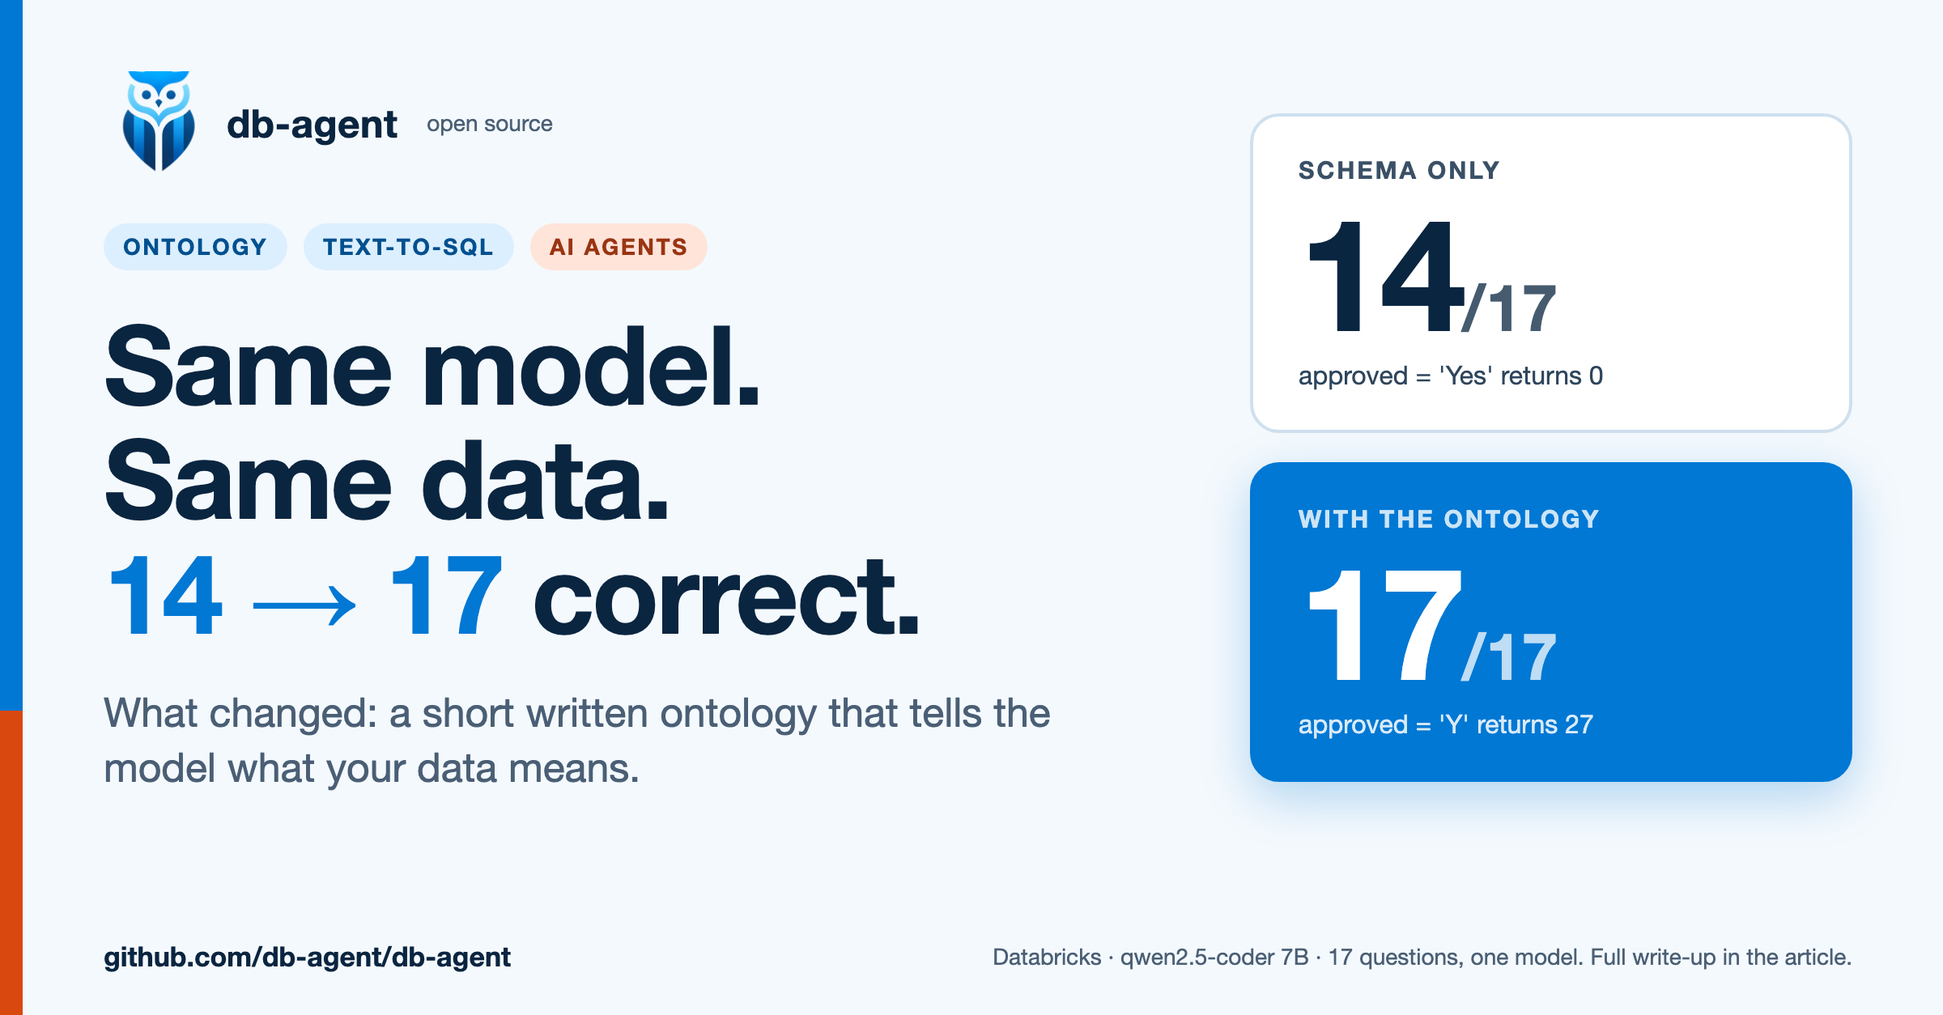
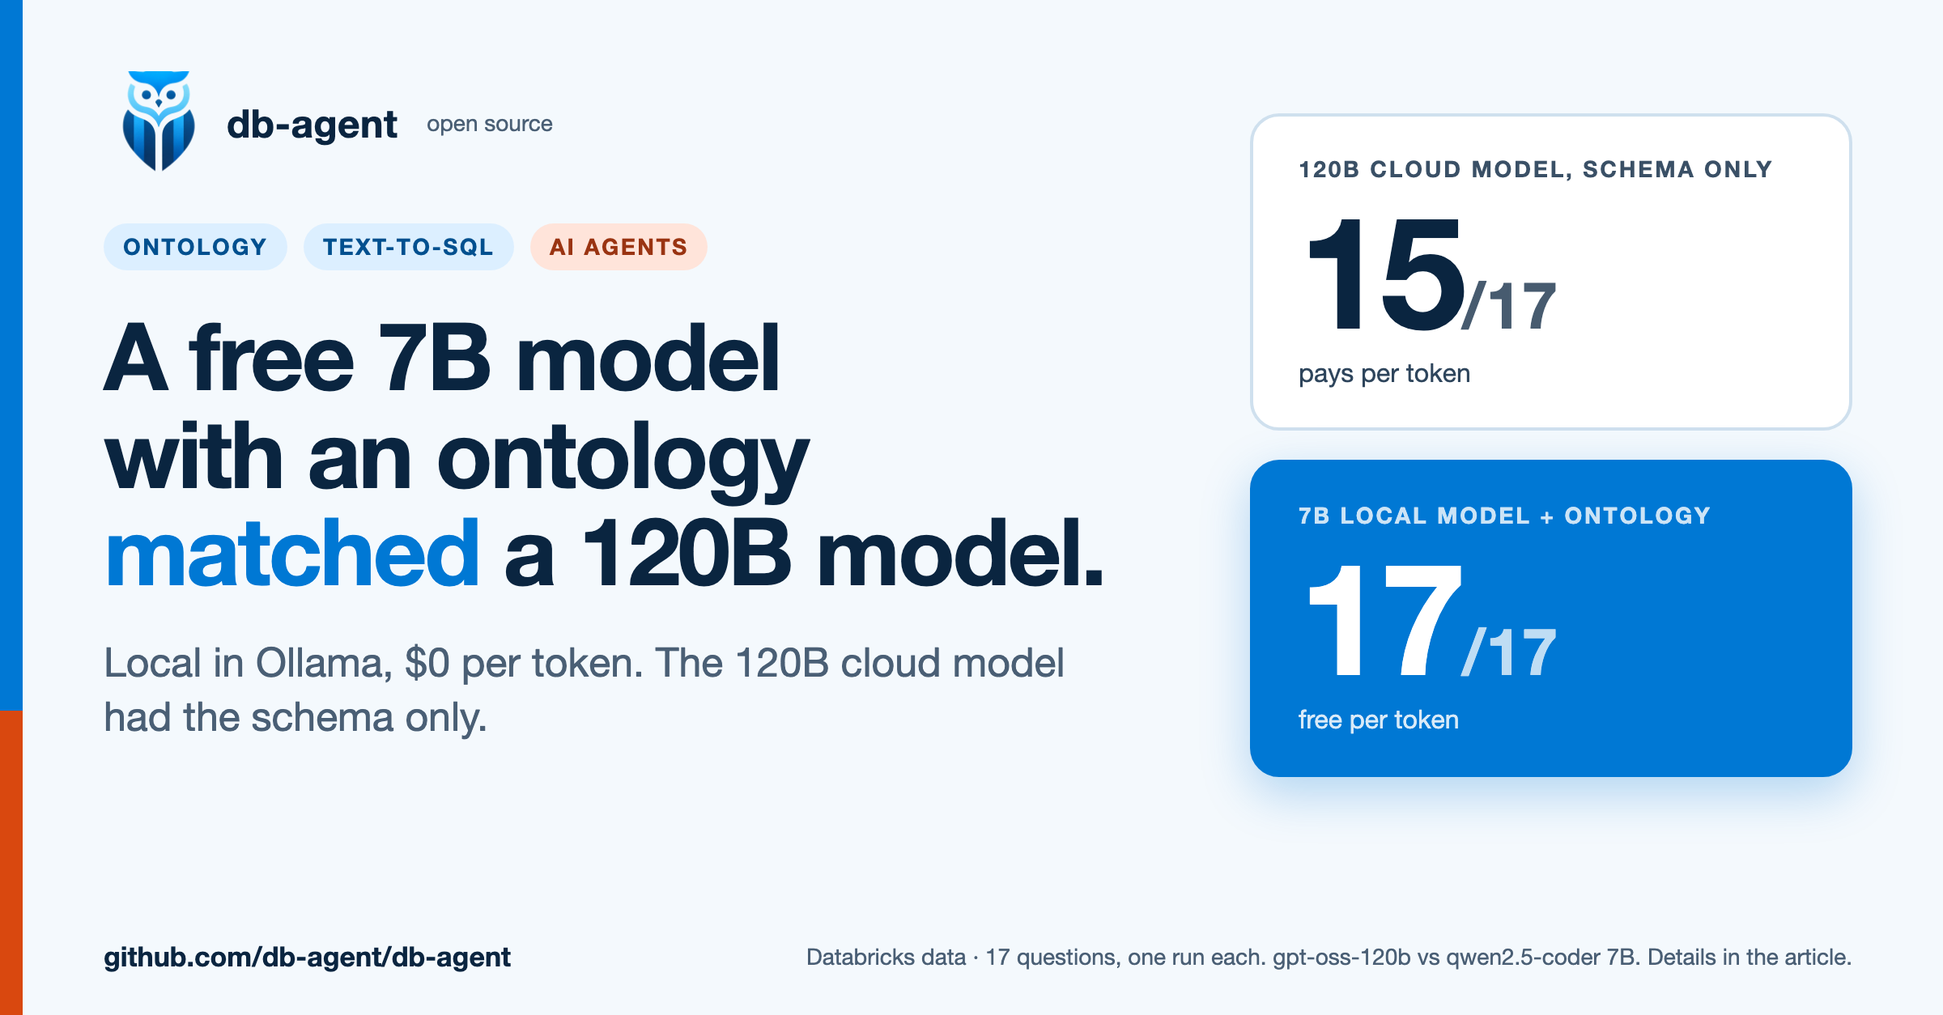
Blog, post and flyer: free local 7B with an ontology against a 120B cloud model, with token costs

diff --git a/app/docs/blog/ontology-text-to-sql-accuracy.html b/app/docs/blog/ontology-text-to-sql-accuracy.html
@@ -253,7 +253,9 @@ for AI Database Agents: Why Model Size Matters Less Than You Think</h1>
 <p><em>I gave the same models the same questions with and without a
 written-down ontology, on AdventureWorks and on a Databricks dataset
 with no comments at all. For text-to-SQL in an AI database agent, the
-ontology moved accuracy more than the choice of model did.</em></p>
+ontology moved accuracy more than the choice of model did, and a free
+local 7B model with an ontology matched a 120B cloud model without
+one.</em></p>
 <p>Most conversations about text-to-SQL accuracy are about the model: a
 bigger one, a SQL-specialist one, a better prompt. I ran a set of tests
 on <a href="https://github.com/db-agent/db-agent">db-agent</a>, an
@@ -280,8 +282,19 @@ difference.</li>
 questions. Adding the ontology changed it by 3 to 7.</li>
 <li>A general 7B model with an ontology (14 of 17) beat a SQL-specialist
 7B model that had only the schema (9 of 17) on AdventureWorks.</li>
-<li>I tested models from 0.5B to 7B. I did not test a frontier model, so
-this article does not claim a small model beats one.</li>
+<li><strong>Free local model against a 120B cloud model:</strong> on the
+Databricks data, a 7B model running locally in Ollama with an ontology
+scored <strong>17 of 17</strong>. OpenAI’s <code>gpt-oss-120b</code> on
+Groq, with the schema alone, scored <strong>15 of 17</strong>, and still
+returned 0 rows for one question that depends on a value only the data
+knows.</li>
+<li><strong>Cost:</strong> the local model costs nothing per token. The
+120B model cost roughly 0.01 to 0.09 US cents per question at Groq’s
+list price. That is cheap, and it still scales with volume and with the
+size of the ontology you send.</li>
+<li>I tested models from 0.5B to 7B locally and one 120B open-weight
+model in the cloud. I did not test a closed frontier model, so this
+article does not claim a small model beats one.</li>
 <li>My first Bakehouse run showed <strong>no gain</strong> (10 correct
 without, 9 with). The ontology was not reaching the model. Writing it
 was not enough: it also has to be found.</li>
@@ -651,6 +664,24 @@ with an ontology</td>
 <td>about equal: the small model with an ontology matched the larger one
 without</td>
 </tr>
+<tr>
+<td><em>Bakehouse:</em> 7B model, schema only, then the 120B model,
+schema only</td>
+<td>14, then 15</td>
+<td>+1 for about 17 times the total parameters</td>
+</tr>
+<tr>
+<td><em>Bakehouse:</em> 7B model, schema only, then the 7B model with an
+ontology</td>
+<td>14, then 17</td>
+<td><strong>+3</strong></td>
+</tr>
+<tr>
+<td><em>Bakehouse:</em> the 120B model, schema only, against the 7B
+model with an ontology</td>
+<td>15 against <strong>17</strong></td>
+<td>the free local model with the ontology matches or beats it</td>
+</tr>
 </tbody>
 </table>
 <p>Every one of these rows is one run on 17 questions, so a difference
@@ -659,24 +690,125 @@ bigger or better-trained model fixes some errors, and an ontology fixes
 a different kind: the ones where the answer is a fact about your data,
 not a skill. A bigger model cannot know that your table stores
 <code>&#39;Y&#39;</code> where it expected <code>&#39;Yes&#39;</code>.</p>
-<p>What I did not test is a frontier model. A larger model may get more
-questions right from the schema alone, and may also guess some
-conventions correctly. Whether a small model with the right ontology can
-match or beat one is an open question in this article, and the next test
-I plan to run.</p>
+<p>What I did not test is a closed frontier model. The 120B model I did
+test is a strong open-weight model, not the best closed model available,
+and a closed model may do better.</p>
+<h2 id="a-free-local-model-against-a-120b-cloud-model">A free local
+model against a 120B cloud model</h2>
+<p>The point I most wanted to check: can a model you run for free get
+the accuracy of a much larger one you pay for per token? I ran the
+Bakehouse questions on <code>gpt-oss-120b</code> through Groq (120B
+parameters in total, about 5B active per token, a reasoning model, run
+at low reasoning effort) and compared it with the local 7B model:</p>
+<table>
+<thead>
+<tr>
+<th>Model</th>
+<th>Schema only</th>
+<th>With the ontology</th>
+</tr>
+</thead>
+<tbody>
+<tr>
+<td><code>qwen2.5-coder</code> 7B, local in Ollama</td>
+<td>14 / 17</td>
+<td><strong>17 / 17</strong></td>
+</tr>
+<tr>
+<td><code>gpt-oss-120b</code>, Groq</td>
+<td><strong>15 / 17</strong></td>
+<td>16 / 17</td>
+</tr>
+</tbody>
+</table>
+<p>Three things stand out:</p>
+<ol type="1">
+<li><strong>The 120B model guessed more conventions on its own.</strong>
+It got the visa question and the female-customers question right without
+being told, where the 7B wrote <code>&#39;Visa&#39;</code> and <code>&#39;F&#39;</code>.
+Bigger models carry better priors about how data is usually stored.</li>
+<li><strong>It still missed the one convention that only your data
+knows.</strong> For “How many suppliers are approved?” it wrote
+<code>approved ILIKE &#39;%yes%&#39;</code> and got 0. The value is
+<code>&#39;Y&#39;</code>. With the ontology it returned 27. No amount of model
+size can read that from a schema.</li>
+<li><strong>The ontology helped the small model more.</strong> It added
+3 correct answers to the 7B model and 1 to the 120B one. But it helped
+both.</li>
+</ol>
+<p>The 7B model with the ontology scored 17 and the 120B model without
+it scored 15. I would call that a match, not a win. The 120B model also
+failed one question (“What is the revenue of the franchises in Japan?”)
+in both runs because it returned a revenue per franchise where my ground
+truth expects one total. The wording allows either reading. Excluding
+that question, the 120B model scores 15 of 16 against 16 of 16 for the
+7B with the ontology, which is a one-question difference.</p>
 <h2 id="what-it-costs">What it costs</h2>
-<p>The ontology is text in the prompt. In the final Bakehouse run the 17
-questions used 12,461 tokens without it and 21,352 with it, about 520
-more input tokens per question. With the illustrative prices I used for
-the local model, that is a fraction of a cent per question. On
-AdventureWorks the effect went the other way (fewer tokens, fewer
-repairs). It depends on how many repairs the model needs without
-help.</p>
+<p>Two kinds of cost matter: tokens and the effort of writing the
+ontology.</p>
+<table>
+<thead>
+<tr>
+<th>Setup (17 questions)</th>
+<th>Tokens</th>
+<th>Cost at list price</th>
+</tr>
+</thead>
+<tbody>
+<tr>
+<td>7B local, schema only</td>
+<td>12,461</td>
+<td>$0, the model runs on your machine</td>
+</tr>
+<tr>
+<td>7B local, with the ontology</td>
+<td>21,352</td>
+<td>$0</td>
+</tr>
+<tr>
+<td>120B on Groq, schema only</td>
+<td>15,725</td>
+<td>about $0.002 to $0.009</td>
+</tr>
+<tr>
+<td>120B on Groq, with the ontology</td>
+<td>23,995</td>
+<td>about $0.004 to $0.014</td>
+</tr>
+</tbody>
+</table>
+<p>Groq lists <code>gpt-oss-120b</code> at $0.15 per million input
+tokens and $0.60 per million output tokens. I did not split the 120B
+tokens into input and output, so the range runs from all input to all
+output. For the 120B model that is about 0.01 to 0.06 cents per question
+without the ontology and 0.02 to 0.08 with it, and its token counts
+include the model’s reasoning tokens.</p>
+<p>What I take from this:</p>
+<ul>
+<li><strong>The ontology is not free on a paid model.</strong> It added
+about 50 to 70 percent more tokens per question (about 520 more input
+tokens per question for the 7B). On a local model that extra context
+costs nothing. On a paid model it multiplies your bill, so keep the file
+short and put the most-used notes first.</li>
+<li><strong>A hosted open model is already cheap.</strong> At these
+prices, 1,000,000 questions a month would cost on the order of $140 to
+$850 on the 120B model, depending on the ontology and the token split.
+The case for local is zero marginal cost, data that never leaves your
+network, and no per-minute limits (Groq’s page lists 8,000 tokens per
+minute for this model on the base plan, which is why I ran it at low
+reasoning effort with retries), not that the cloud is expensive. I did
+not price closed frontier models.</li>
+<li><strong>Local is not free.</strong> You pay for the machine and the
+effort to run it. The saving is the per-token charge.</li>
+</ul>
 <h2 id="limits">Limits</h2>
 <p>I would rather you read these than find them.</p>
 <ul>
-<li><strong>Models from 0.5B to 7B, plus one SQL-specialist
-model.</strong> No frontier model was tested.</li>
+<li><strong>Models from 0.5B to 7B locally, one SQL-specialist model,
+and one 120B open-weight model in the cloud.</strong> No closed frontier
+model was tested. The 120B run used low reasoning effort (chosen because
+of a per-minute token limit) and one run; a higher effort may do
+better.</li>
 <li><strong>17 questions per dataset, one model family.</strong> A
 difference of one or two questions is noise. The pattern across two
 datasets and several runs is the evidence, not any single number.</li>

diff --git a/app/docs/blog/flyer/flyer.html b/app/docs/blog/flyer/flyer.html
@@ -15,7 +15,7 @@
   .kick { margin-top: 30px; display: flex; gap: 10px; }
   .chip { font-size: 14px; font-weight: 700; letter-spacing: 1.2px; padding: 6px 12px; border-radius: 999px; background: var(--azure-soft); color: #00508f; }
   .chip.o { background: #ffe4da; color: #9a3412; }
-  h1 { margin-top: 22px; font-size: 68px; line-height: 1.04; font-weight: 800; letter-spacing: -1.5px; }
+  h1 { margin-top: 22px; font-size: 58px; line-height: 1.04; font-weight: 800; letter-spacing: -1.5px; }
   h1 em { font-style: normal; color: var(--azure); }
   .sub { margin-top: 22px; font-size: 25px; line-height: 1.35; color: var(--muted); max-width: 600px; }
   .code { margin-top: 26px; width: 600px; border: 1px solid var(--line); border-radius: 12px; background: #fff; overflow: hidden; font-family: ui-monospace, "SF Mono", Menlo, monospace; font-size: 19px; }
@@ -26,7 +26,7 @@
   .right { position: absolute; right: 56px; top: 70px; width: 372px; display: flex; flex-direction: column; gap: 18px; }
   .card { border-radius: 18px; padding: 24px 28px; background: #fff; border: 2px solid var(--line); }
   .card.on { background: var(--azure); border-color: var(--azure); color: #fff; box-shadow: 0 10px 30px rgba(0,120,212,.28); }
-  .card small { display: block; font-size: 15px; font-weight: 700; letter-spacing: 1.4px; opacity: .8; }
+  .card small { display: block; font-size: 14px; font-weight: 700; letter-spacing: 1.4px; opacity: .8; }
   .card .n { font-size: 96px; font-weight: 800; line-height: 1; letter-spacing: -3px; margin-top: 6px; }
   .card .n span { font-size: 40px; letter-spacing: 0; opacity: .75; font-weight: 700; }
   .card p { margin-top: 6px; font-size: 16px; opacity: .85; }
@@ -39,15 +39,15 @@
   <div class="left">
     <div class="brand"><div class="logo"><img src="logo.png" alt="db-agent logo"></div><b>db-agent</b><span>open source</span></div>
     <div class="kick"><span class="chip">ONTOLOGY</span><span class="chip">TEXT-TO-SQL</span><span class="chip o">AI AGENTS</span></div>
-    <h1>Same model.<br>Same data.<br><em>14 &rarr; 17</em> correct.</h1>
-    <p class="sub">What changed: a short written ontology that tells the model what your data means.</p>
+    <h1>A free 7B model<br>with an ontology<br><em>matched</em> a 120B model.</h1>
+    <p class="sub">Local in Ollama, $0 per token. The 120B cloud model had the schema only.</p>
   </div>
   <div class="right">
-    <div class="card"><small>SCHEMA ONLY</small><div class="n">14<span>/17</span></div><p>approved = 'Yes' returns 0</p></div>
-    <div class="card on"><small>WITH THE ONTOLOGY</small><div class="n">17<span>/17</span></div><p>approved = 'Y' returns 27</p></div>
+    <div class="card"><small>120B CLOUD MODEL, SCHEMA ONLY</small><div class="n">15<span>/17</span></div><p>pays per token</p></div>
+    <div class="card on"><small>7B LOCAL MODEL + ONTOLOGY</small><div class="n">17<span>/17</span></div><p>free per token</p></div>
   </div>
   <div class="foot">
     <div><b>github.com/db-agent/db-agent</b></div>
-    <div class="tiny">Databricks &middot; qwen2.5-coder 7B &middot; 17 questions, one model. Full write-up in the article.</div>
+    <div class="tiny">Databricks data &middot; 17 questions, one run each. gpt-oss-120b vs qwen2.5-coder 7B. Details in the article.</div>
   </div>
 </body></html>

diff --git a/app/docs/blog/ontology-text-to-sql-accuracy.md b/app/docs/blog/ontology-text-to-sql-accuracy.md
@@ -1,6 +1,6 @@
 # Ontology for AI Database Agents: Why Model Size Matters Less Than You Think
 
-*I gave the same models the same questions with and without a written-down ontology, on AdventureWorks and on a Databricks dataset with no comments at all. For text-to-SQL in an AI database agent, the ontology moved accuracy more than the choice of model did.*
+*I gave the same models the same questions with and without a written-down ontology, on AdventureWorks and on a Databricks dataset with no comments at all. For text-to-SQL in an AI database agent, the ontology moved accuracy more than the choice of model did, and a free local 7B model with an ontology matched a 120B cloud model without one.*
 
 Most conversations about text-to-SQL accuracy are about the model: a bigger one, a SQL-specialist one, a better prompt. I ran a set of tests on [db-agent](https://github.com/db-agent/db-agent), an open-source natural-language-to-SQL layer, and the biggest lever I found was none of those. It was a plain text file that says what the data means.
 
@@ -11,7 +11,9 @@ Most conversations about text-to-SQL accuracy are about the model: a bigger one,
 - In a separate check of 16 hand-picked prompts, 7 gave a different, wrong-versus-right answer with the ontology and 9 made no difference.
 - In the same tests, swapping the model changed the score by about 2 questions. Adding the ontology changed it by 3 to 7.
 - A general 7B model with an ontology (14 of 17) beat a SQL-specialist 7B model that had only the schema (9 of 17) on AdventureWorks.
-- I tested models from 0.5B to 7B. I did not test a frontier model, so this article does not claim a small model beats one.
+- **Free local model against a 120B cloud model:** on the Databricks data, a 7B model running locally in Ollama with an ontology scored **17 of 17**. OpenAI's `gpt-oss-120b` on Groq, with the schema alone, scored **15 of 17**, and still returned 0 rows for one question that depends on a value only the data knows.
+- **Cost:** the local model costs nothing per token. The 120B model cost roughly 0.01 to 0.09 US cents per question at Groq's list price. That is cheap, and it still scales with volume and with the size of the ontology you send.
+- I tested models from 0.5B to 7B locally and one 120B open-weight model in the cloud. I did not test a closed frontier model, so this article does not claim a small model beats one.
 - My first Bakehouse run showed **no gain** (10 correct without, 9 with). The ontology was not reaching the model. Writing it was not enough: it also has to be found.
 - The ontology costs tokens: about 520 extra input tokens per question in my run.
 
@@ -150,20 +152,55 @@ Models are the part everyone tunes, so here are the model comparisons I have, on
 | 7B model, schema only, then the same 7B model with an ontology | 7, then 14 | **+7** |
 | SQL-specialist 7B model, schema only, against the general 7B model with an ontology | 9 against **14** | the general model with the ontology wins |
 | 7B model, schema only, against the 1.5B model with an ontology | 7 against 8 | about equal: the small model with an ontology matched the larger one without |
+| *Bakehouse:* 7B model, schema only, then the 120B model, schema only | 14, then 15 | +1 for about 17 times the total parameters |
+| *Bakehouse:* 7B model, schema only, then the 7B model with an ontology | 14, then 17 | **+3** |
+| *Bakehouse:* the 120B model, schema only, against the 7B model with an ontology | 15 against **17** | the free local model with the ontology matches or beats it |
 
 Every one of these rows is one run on 17 questions, so a difference of one or two questions is noise. What I read from the pattern is that a bigger or better-trained model fixes some errors, and an ontology fixes a different kind: the ones where the answer is a fact about your data, not a skill. A bigger model cannot know that your table stores `'Y'` where it expected `'Yes'`.
 
-What I did not test is a frontier model. A larger model may get more questions right from the schema alone, and may also guess some conventions correctly. Whether a small model with the right ontology can match or beat one is an open question in this article, and the next test I plan to run.
+What I did not test is a closed frontier model. The 120B model I did test is a strong open-weight model, not the best closed model available, and a closed model may do better.
+
+## A free local model against a 120B cloud model
+
+The point I most wanted to check: can a model you run for free get the accuracy of a much larger one you pay for per token? I ran the Bakehouse questions on `gpt-oss-120b` through Groq (120B parameters in total, about 5B active per token, a reasoning model, run at low reasoning effort) and compared it with the local 7B model:
+
+| Model | Schema only | With the ontology |
+|---|---|---|
+| `qwen2.5-coder` 7B, local in Ollama | 14 / 17 | **17 / 17** |
+| `gpt-oss-120b`, Groq | **15 / 17** | 16 / 17 |
+
+Three things stand out:
+
+1. **The 120B model guessed more conventions on its own.** It got the visa question and the female-customers question right without being told, where the 7B wrote `'Visa'` and `'F'`. Bigger models carry better priors about how data is usually stored.
+2. **It still missed the one convention that only your data knows.** For "How many suppliers are approved?" it wrote `approved ILIKE '%yes%'` and got 0. The value is `'Y'`. With the ontology it returned 27. No amount of model size can read that from a schema.
+3. **The ontology helped the small model more.** It added 3 correct answers to the 7B model and 1 to the 120B one. But it helped both.
+
+The 7B model with the ontology scored 17 and the 120B model without it scored 15. I would call that a match, not a win. The 120B model also failed one question ("What is the revenue of the franchises in Japan?") in both runs because it returned a revenue per franchise where my ground truth expects one total. The wording allows either reading. Excluding that question, the 120B model scores 15 of 16 against 16 of 16 for the 7B with the ontology, which is a one-question difference.
 
 ## What it costs
 
-The ontology is text in the prompt. In the final Bakehouse run the 17 questions used 12,461 tokens without it and 21,352 with it, about 520 more input tokens per question. With the illustrative prices I used for the local model, that is a fraction of a cent per question. On AdventureWorks the effect went the other way (fewer tokens, fewer repairs). It depends on how many repairs the model needs without help.
+Two kinds of cost matter: tokens and the effort of writing the ontology.
+
+| Setup (17 questions) | Tokens | Cost at list price |
+|---|---|---|
+| 7B local, schema only | 12,461 | $0, the model runs on your machine |
+| 7B local, with the ontology | 21,352 | $0 |
+| 120B on Groq, schema only | 15,725 | about $0.002 to $0.009 |
+| 120B on Groq, with the ontology | 23,995 | about $0.004 to $0.014 |
+
+Groq lists `gpt-oss-120b` at $0.15 per million input tokens and $0.60 per million output tokens. I did not split the 120B tokens into input and output, so the range runs from all input to all output. For the 120B model that is about 0.01 to 0.06 cents per question without the ontology and 0.02 to 0.08 with it, and its token counts include the model's reasoning tokens.
+
+What I take from this:
+
+- **The ontology is not free on a paid model.** It added about 50 to 70 percent more tokens per question (about 520 more input tokens per question for the 7B). On a local model that extra context costs nothing. On a paid model it multiplies your bill, so keep the file short and put the most-used notes first.
+- **A hosted open model is already cheap.** At these prices, 1,000,000 questions a month would cost on the order of $140 to $850 on the 120B model, depending on the ontology and the token split. The case for local is zero marginal cost, data that never leaves your network, and no per-minute limits (Groq's page lists 8,000 tokens per minute for this model on the base plan, which is why I ran it at low reasoning effort with retries), not that the cloud is expensive. I did not price closed frontier models.
+- **Local is not free.** You pay for the machine and the effort to run it. The saving is the per-token charge.
 
 ## Limits
 
 I would rather you read these than find them.
 
-- **Models from 0.5B to 7B, plus one SQL-specialist model.** No frontier model was tested.
+- **Models from 0.5B to 7B locally, one SQL-specialist model, and one 120B open-weight model in the cloud.** No closed frontier model was tested. The 120B run used low reasoning effort (chosen because of a per-minute token limit) and one run; a higher effort may do better.
 - **17 questions per dataset, one model family.** A difference of one or two questions is noise. The pattern across two datasets and several runs is the evidence, not any single number.
 - **I wrote the questions and the ontology.** The ontology defines concepts several questions ask about. This measures what a good ontology can do, not what an average one does, and not the gain on questions nobody anticipated.
 - **I fixed the scoring between runs 1 and 2.** One ground-truth query returned an extra revenue column for a question that only asked for names, and I let answers carry extra columns (a model that answers "which product" with the product and its total is still right). Both changes helped the runs without the ontology as well as the ones with it.
